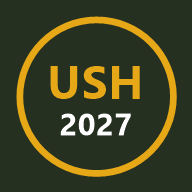
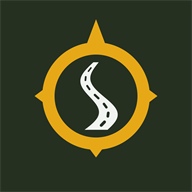
Add files via upload

Changed region(s): [[0.0625, 0.0625, 0.9375, 0.9375]]

diff --git a/index.html b/index.html
@@ -3,15 +3,15 @@
 <head>
 <meta charset="UTF-8">
 <meta name="viewport" content="width=device-width, initial-scale=1, viewport-fit=cover">
-<title>Diário de Bordo — Ushuaia 2027</title>
-<meta name="description" content="Diário de bordo offline para expedição de moto: roteiro, odômetro, gastos e grupo.">
+<title>DiBordo</title>
+<meta name="description" content="DiBordo: seu diário de bordo, com ou sem sinal. Roteiro, odômetro, consumo, gastos e grupo.">
 <meta name="theme-color" content="#253021" id="meta-theme">
 <link rel="manifest" href="manifest.webmanifest">
 <link rel="icon" href="icons/icon-192.png">
 <link rel="apple-touch-icon" href="icons/apple-touch-icon.png">
 <meta name="mobile-web-app-capable" content="yes">
 <meta name="apple-mobile-web-app-capable" content="yes">
-<meta name="apple-mobile-web-app-title" content="Ushuaia 2027">
+<meta name="apple-mobile-web-app-title" content="DiBordo">
 <meta name="apple-mobile-web-app-status-bar-style" content="black-translucent">
 <link rel="stylesheet" href="style.css">
 </head>
@@ -19,6 +19,7 @@
 
 <header id="hdr">
   <div class="h-top">
+    <span class="brand" aria-label="DiBordo"><i>Di</i>Bordo</span>
     <span class="badge" id="badge">—</span>
     <span class="net" id="net"></span>
     <button class="btn-top" data-act="toggleDash" id="dash-btn">Painel ▾</button>

diff --git a/sw.js b/sw.js
@@ -1,7 +1,7 @@
 'use strict';
 /* Service worker: guarda o app inteiro para uso 100% offline.
    Ao publicar uma nova versão dos arquivos, aumente VERSION para os aparelhos atualizarem. */
-const VERSION = 'v1.1.0';
+const VERSION = 'v1.2.0';
 const CACHE = 'ushuaia-' + VERSION;
 const SHELL = [
   './', 'index.html', 'style.css', 'data.js', 'core.js', 'app.js', 'modals.js', 'trips.js', 'ocr.js', 'io.js', 'actions.js', 'boot.js',

diff --git a/style.css b/style.css
@@ -197,3 +197,7 @@ a.chip { text-decoration: none; }
 details summary { cursor: pointer; margin-top: 4px; }
 .sheet .card { margin-bottom: 10px; }
 .sheet pre { max-height: 160px; overflow: auto; }
+
+/* ===== Marca DiBordo ===== */
+.brand{font-weight:800;font-size:15px;letter-spacing:.2px;color:var(--amber);margin-right:auto}
+.brand i{font-style:normal;color:#a9b89a}

diff --git a/LEIA-ME.md b/LEIA-ME.md
@@ -1,4 +1,8 @@
-# Diário de Bordo (app offline) — v1.1
+# DiBordo — seu diário de bordo, com ou sem sinal (v1.2)
+
+Marca: nome **DiBordo**, cores #253021 (verde-oliva), #E6A817 (âmbar), #F2F4F1; fontes sugeridas Montserrat/Outfit (títulos) e Inter (textos). Arquivos de referência da identidade visual em `marca/` (não precisam ir para o GitHub).
+
+Ao atualizar: suba também `icons/` (4 ícones novos) e `manifest.webmanifest`. Quem já instalou o app antigo deve desinstalar e instalar de novo para ver o novo nome e ícone.
 
 Aplicativo web (PWA) para usar no celular durante a viagem. Depois de aberto uma vez com internet, funciona **sem sinal**.
 
